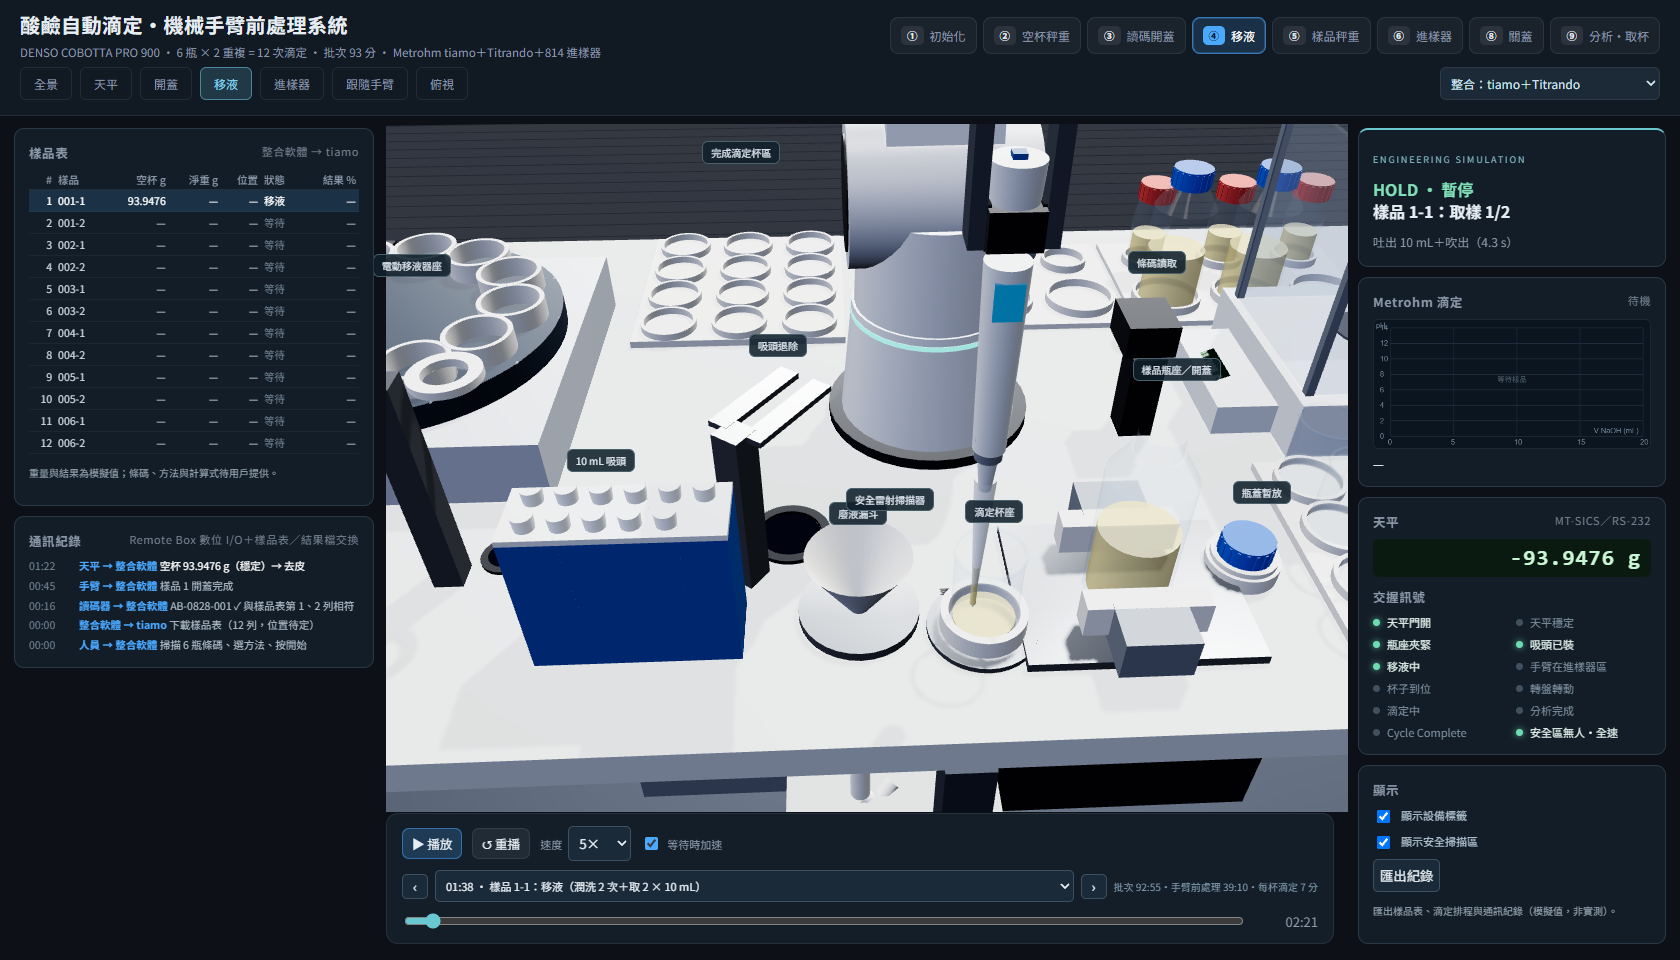
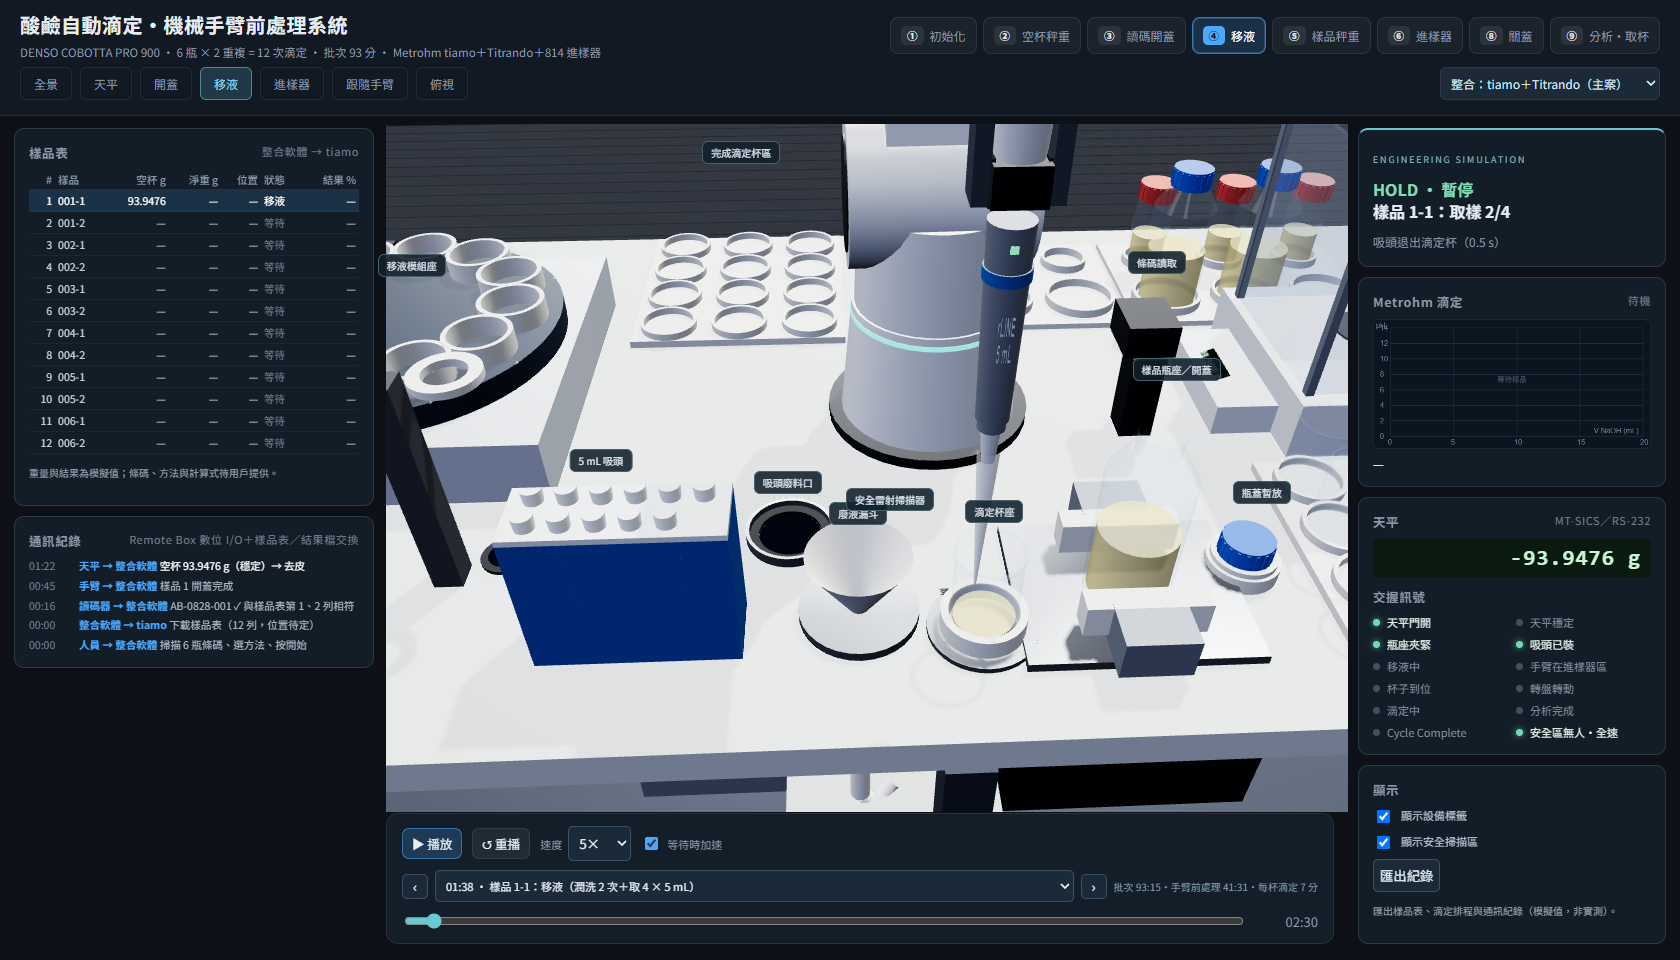
[TestCode] 1. AutomaticAcid-BaseTitration 依選項對話定案：移液改用機器人專用 5 mL 移液模組（rLINE 級，4 × 5 mL、電動退吸頭），退除叉改為吸頭廢料口。 2. Metrohm 以 tiamo＋Titrando 為主案、OMNIS 列為備案；滴定頭加純水 50 mL；維持單一滴定頭。 3. 整批約 93 分、前處理每瓶約 6.9 分；規劃文件、README 與驗證結果同步更新，驗證全數通過。

diff --git a/TestCode/AutomaticAcid-BaseTitration/web/js/plan.js b/TestCode/AutomaticAcid-BaseTitration/web/js/plan.js
@@ -90,7 +90,7 @@ export function buildPlan(robot) {
   const B = { t: 0, pose: null, j: null };
   const jawVec = a => new THREE.Vector3(Math.sin(a), 0, Math.cos(a));   // 夾爪沿 (cos a, 0, −sin a) 開合
   function P(x, y, z, a = 0, sym = true) {
-    // 對稱夾持（圓形器皿、移液器）：a 與 a+π 等價，取相對手臂徑向在 ±90° 內者，J6 不會越轉越多
+    // 對稱夾持（圓形器皿、移液模組）：a 與 a+π 等價，取相對手臂徑向在 ±90° 內者，J6 不會越轉越多
     if (sym) { const phi = Math.atan2(-(z - ST.robot.z), x - ST.robot.x), rel = wrapPi(a - phi); a = phi + (rel > Math.PI / 2 ? rel - Math.PI : rel <= -Math.PI / 2 ? rel + Math.PI : rel); }
     const p = robot.poseFor('grip', new THREE.Vector3(x, y, z), jawVec(a)); p.m = { x, y, z, a }; return p;
   }
@@ -215,22 +215,22 @@ export function buildPlan(robot) {
     }
   }
 
-  // ---------------------------------------------------------------- 移液器
+  // ---------------------------------------------------------------- 移液模組
   let hasTip = null;
   function pipetteTake() {
-    act('取移液器');
+    act('取移液模組');
     const w0 = s.grip;
-    go(P(dockPos[0], Y_PIP, dockPos[2], 0), '移到移液器座上方', { fx: (st, e) => { st.grip = THREE.MathUtils.lerp(w0, 70, Math.min(1, e * 2)); } });
+    go(P(dockPos[0], Y_PIP, dockPos[2], 0), '移到移液模組座上方', { fx: (st, e) => { st.grip = THREE.MathUtils.lerp(w0, 70, Math.min(1, e * 2)); } });
     down(Y0 + ST.dock.collar, '直線下降到夾持環', { touch: ['pip', 'dock', 'bench', ...(hasTip ? [hasTip] : [])] });
-    grip(38, '夾住移液器', { touch: ['pip', 'dock', 'bench', ...(hasTip ? [hasTip] : [])] }); attach('pip');
-    up(Y_PIP, '提起移液器', { touch: ['pip', 'dock', 'bench', ...(hasTip ? [hasTip] : [])] });
+    grip(38, '夾住移液模組', { touch: ['pip', 'dock', 'bench', ...(hasTip ? [hasTip] : [])] }); attach('pip');
+    up(Y_PIP, '提起移液模組', { touch: ['pip', 'dock', 'bench', ...(hasTip ? [hasTip] : [])] });
   }
   function pipetteReturn() {
-    act('移液器放回');
-    go(P(dockPos[0], Y_PIP, dockPos[2], 0), '移到移液器座上方');
+    act('移液模組放回');
+    go(P(dockPos[0], Y_PIP, dockPos[2], 0), '移到移液模組座上方');
     down(Y0 + ST.dock.collar, '直線下降放入停放座', { touch: ['pip', 'dock', 'bench', ...(hasTip ? [hasTip] : [])] });
     detach('pip');
-    grip(70, '放開移液器', { touch: ['pip', 'dock'] });
+    grip(70, '放開移液模組', { touch: ['pip', 'dock'] });
     up(Y_PIP, '夾爪上移', { touch: ['pip', 'dock'] });
   }
   function tipMount(t) {
@@ -241,19 +241,17 @@ export function buildPlan(robot) {
     s.loc[`tip${t}`] = { on: 'pip', off: [0, PIPETTE.tipSeat, 0], yaw: 0 }; hasTip = `tip${t}`; setSig('tip', true);
     up(Y_PIP, '提起', { touch: [`tip${t}`, 'tiprack'] });
   }
-  function tipStrip() {
-    const S = ST.stripper, u = new THREE.Vector3(S.x, 0, S.z).normalize(), y = Y0 + S.plate - 1 + PIPETTE.collar - PIPETTE.tipSeat;
-    const tipId = hasTip;
-    act('退除吸頭');
-    go(P(S.x - u.x * 75, Y_PIP, S.z - u.z * 75, 0), '移到吸頭退除叉前');
-    down(y, '下降到退除高度', { touch: ['stripper'] });
-    lin(P(S.x, y, S.z, B.pose.m.a, false), '吸頭卡入叉口', { v: SPEED.linSlow, touch: ['stripper', tipId, 'pip'] });
+  // 模組電動退吸頭：吸頭尖端停在廢料口上方 25 mm，退出後落入桌下廢料桶
+  function tipEject() {
+    const S = ST.tipChute, y = Y0 + 25 + PIPETTE.tipEnd, tipId = hasTip;
+    act('退吸頭');
+    go(P(S.x, Y_PIP, S.z, 0), '移到吸頭廢料口上方');
+    down(y, '下降到退吸頭高度');
+    const y0 = itemWorld(tipId).p.y;
+    wait(0.8, '模組電動退吸頭', null, { sig: 'eject' });
     detach(tipId); hasTip = null; setSig('tip', false);
-    const y0 = s.loc[tipId].w[1];
-    lin(at(y + 50), '上提退除吸頭', { v: SPEED.linSlow, touch: ['stripper', tipId, 'pip'] });
-    wait(0.35, '吸頭落入落料槽', (st, e) => { st.loc[tipId].w[1] = y0 - 260 * e * e; if (e >= 1) st.loc[tipId].gone = true; });
+    wait(0.35, '吸頭落入廢料口', (st, e) => { st.loc[tipId].w[1] = y0 - 300 * e * e; if (e >= 1) st.loc[tipId].gone = true; }, { touch: [tipId, 'chute', 'bench'] });
     s.loc[tipId].gone = true; s.tipVol[tipId] = 0;
-    lin(P(S.x - u.x * 75, y + 50, S.z - u.z * 75, B.pose.m.a, false), '退出叉口', { touch: ['stripper'] });
     up(Y_PIP, '上升');
   }
   // 吸液：吸頭尖端在液面下 12 mm（最低離瓶底 8 mm）
@@ -338,7 +336,7 @@ export function buildPlan(robot) {
   ev('① 初始化：人員掃條碼、整合軟體建立樣品表（6 瓶 × 2 重複）', { phase: 0 });
   say(0, '人員', '整合軟體', '掃描 6 瓶條碼、選方法、按開始');
   say(0, '整合軟體', 'Metrohm', '下載樣品表（12 列，位置待定）');
-  wait(3, '整合軟體檢查天平、Metrohm、移液器連線');
+  wait(3, '整合軟體檢查天平、Metrohm、移液模組連線');
   let beakerNext = 0;
   for (let i = 0; i < SAMPLES.length; i++) {
     const S = SAMPLES[i], b = BOTTLES[S.size], id = `bottle${i}`, rp = sampleRackPos(i);
@@ -397,15 +395,15 @@ export function buildPlan(robot) {
       s.balStable = false;
       place(bk, holderPos[0], holderPos[1] + BEAKER.h / 2, holderPos[2], 0, 90, null, Y_EMPTY, ['移到滴定杯座', '直線下降', '放開', '上升'], { touch: ['holder'] });
       // ---- 移液潤洗＋取樣 20 mL
-      ev(`樣品 ${i + 1}-${rep + 1}：移液（潤洗 2 次＋取 2 × 10 mL）`, { sample: i, job: jobK, phase: 4 });
+      ev(`樣品 ${i + 1}-${rep + 1}：移液（潤洗 2 次＋取 4 × 5 mL）`, { sample: i, job: jobK, phase: 4 });
       act(`樣品 ${i + 1}-${rep + 1}：移液`);
       pipetteTake();
       if (!hasTip) tipMount(i);
       for (let n = 0; n < RINSE.times; n++) { act(`樣品 ${i + 1}-${rep + 1}：潤洗 ${n + 1}/${RINSE.times}`); aspirate(i, RINSE.vol, `潤洗 ${n + 1}`); dispense('waste', RINSE.vol); }
       for (let n = 0; n < ALIQUOT.times; n++) { act(`樣品 ${i + 1}-${rep + 1}：取樣 ${n + 1}/${ALIQUOT.times}`); aspirate(i, ALIQUOT.vol, `取樣 ${n + 1}`); dispense(k, ALIQUOT.vol, `取樣 ${n + 1}`); }
       job.aliquot = ALIQUOT.vol * ALIQUOT.times;
-      say(B.t, '移液器', '整合軟體', `樣品 ${i + 1}-${rep + 1}：已加 ${job.aliquot} mL`);
-      if (rep === 1) tipStrip();
+      say(B.t, '移液模組', '整合軟體', `樣品 ${i + 1}-${rep + 1}：已加 ${ALIQUOT.times} × ${ALIQUOT.vol} mL = ${job.aliquot} mL`);
+      if (rep === 1) tipEject();
       pipetteReturn();
       // ---- 樣品秤重
       act(`樣品 ${i + 1}-${rep + 1}：樣品秤重`); ev(`樣品 ${i + 1}-${rep + 1}：樣品秤重（讀淨重）`, { sample: i, job: jobK, phase: 5 });

diff --git a/TestCode/AutomaticAcid-BaseTitration/web/js/lab.js b/TestCode/AutomaticAcid-BaseTitration/web/js/lab.js
@@ -1,4 +1,4 @@
-// 實驗桌、設備與器皿（樣品瓶、瓶蓋、滴定杯、移液器、吸頭）
+// 實驗桌、設備與器皿（樣品瓶、瓶蓋、滴定杯、移液模組、吸頭）
 import * as THREE from 'three';
 import { block, cylinder, decal, tube } from './detail.js';
 import { Y0, BENCH, ST, BEAKER, BOTTLES, CAP, PIPETTE, SAMPLES } from './layout.js';
@@ -120,18 +120,16 @@ export function createLab(scene) {
   ring(holder, BEAKER.d / 2 + 2, BEAKER.d / 2 + 10, ST.holder.base + 12, [0, 0, 0], M.pom);
   decal(holder, 80, 16, [0, 6.6, 45], [-Math.PI / 2, 0, 0], '滴定杯座', { color: '#20242a', center: true, bold: true });
 
-  // ---------------------------------------------------------------- 移液區：廢液漏斗、吸頭退除叉、吸頭架、移液器停放座
+  // ---------------------------------------------------------------- 移液區：廢液漏斗、吸頭廢料口、吸頭架、移液模組停放座
   const F = ST.funnel;
   const funnel = new THREE.Mesh(new THREE.CylinderGeometry(52, 10, F.top - 10, 32, 1, true), new THREE.MeshStandardMaterial({ color: 0xf4f1e8, roughness: 0.6, side: THREE.DoubleSide }));
   funnel.position.set(F.x, Y0 + 10 + (F.top - 10) / 2, F.z); root.add(K('funnel', funnel));
   cylinder(root, 60, 10, [F.x, Y0 + 5, F.z], M.steel, 'y', 32);
-  const S = ST.stripper, sdir = new THREE.Vector3(S.x, 0, S.z).normalize();              // 開口朝手臂
-  const strip = new THREE.Group(); strip.position.set(S.x, Y0, S.z); strip.rotation.y = Math.atan2(-sdir.x, -sdir.z); root.add(strip);
+  const S = ST.tipChute, strip = new THREE.Group(); strip.position.set(S.x, Y0, S.z); root.add(strip);
   // 局部 +Z 朝手臂：支柱在遠端，叉口開向手臂
-  K('stripper', block(strip, [30, S.plate + 6, 30], [0, (S.plate + 6) / 2, -70], M.steel));
-  for (const s of [-1, 1]) K('stripper', block(strip, [22, 6, 110], [s * 20, S.plate + 3, -15], M.steel));   // 叉形板（槽寬 18：吸頭嘴過得去、吸頭口 Ø20 卡住）
   ring(strip, 34, 44, 5, [0, 0, 0], M.dark); cylinder(strip, 34, 1, [0, 0.5, 0], M.screen, 'y', 28);          // 落料孔（通桌下廢料桶）
-  decal(strip, 70, 16, [0, 1, 58], [-Math.PI / 2, Math.PI, 0], '吸頭退除', { color: '#e6edf3', center: true, bold: true });
+  K('chute', ring(strip, 44, 48, 12, [0, 0, 0], M.steel));
+  decal(strip, 70, 16, [0, 1, 62], [-Math.PI / 2, 0, 0], '吸頭廢料口', { color: '#e6edf3', center: true, bold: true });
   const TR = ST.tipRack, tipRack = new THREE.Group(); root.add(tipRack);
   const trx = TR.x0 + (TR.n - 1) * TR.pitch / 2, trz = (TR.z[0] + TR.z[1]) / 2;
   K('tiprack', block(tipRack, [TR.n * TR.pitch + 16, TR.top - 20, 70], [trx, Y0 + (TR.top - 20) / 2, trz], M.blue));
@@ -141,7 +139,7 @@ export function createLab(scene) {
   cylinder(dock, 26, 4, [0, 2, 0], M.dark, 'y', 32); cylinder(dock, 18, 1, [0, 4.5, 0], M.screen, 'y', 24);   // 桌面孔（吸頭伸入桌下套管）
   K('dock', block(dock, [30, D.collar - 6, 30], [ddir.x * 55, (D.collar - 6) / 2, ddir.z * 55], M.steel));
   const fork = ring(dock, 21, 34, 8, [0, D.collar - 23, 0], M.pom); K('dock', fork);
-  decal(dock, 70, 16, [ddir.x * 55 - ddir.z * 16, 120, ddir.z * 55 + ddir.x * 16], [0, Math.atan2(-ddir.z, ddir.x), 0], '移液器座', { color: '#e6edf3', center: true, bold: true });
+  decal(dock, 70, 16, [ddir.x * 55 - ddir.z * 16, 120, ddir.z * 55 + ddir.x * 16], [0, Math.atan2(-ddir.z, ddir.x), 0], '移液模組座', { color: '#e6edf3', center: true, bold: true });
 
   // ---------------------------------------------------------------- 條碼讀取器（固定式，手臂把瓶子送到讀取點旋轉）
   const SC = ST.scanner, scanner = new THREE.Group(); scanner.position.set(SC.x, Y0, SC.z); root.add(scanner);
@@ -243,11 +241,13 @@ export function createLab(scene) {
     const g = new THREE.Group(); root.add(g); const p = PIPETTE;
     const nose = new THREE.Mesh(new THREE.CylinderGeometry(9, 5.5, p.nose, 20), M.white); nose.position.y = p.nose / 2; g.add(nose);
     const ej = cylinder(g, 12, 20, [0, p.nose + 10, 0], M.grey, 'y', 20);
-    const body = new THREE.Mesh(new THREE.CylinderGeometry(p.r, 14, p.collar - p.nose - 40, 28), M.white); body.position.y = (p.collar + p.nose - 20) / 2; g.add(body);
+    const body = new THREE.Mesh(new THREE.CylinderGeometry(p.r, 14, p.collar - p.nose - 40, 28), M.grey); body.position.y = (p.collar + p.nose - 20) / 2; g.add(body);
+    cylinder(g, p.r + 0.6, 10, [0, p.collar - 70, 0], M.blue, 'y', 28);                                  // 模組識別環
     block(g, [40, 30, 40], [0, p.collar, 0], M.dark);                                                   // 夾持環（夾爪夾這裡）
     const head = new THREE.Mesh(new THREE.CylinderGeometry(20, p.r, p.top - p.collar - 15, 28), M.white); head.position.y = (p.top + p.collar + 15) / 2; g.add(head);
-    const disp = block(g, [22, 30, 3], [0, p.collar - 55, p.r - 1], M.screen); disp.material = new THREE.MeshStandardMaterial({ color: 0x0f2c3a, emissive: 0x2a7fb0, emissiveIntensity: 0.6 });
-    block(g, [10, 4, 10], [0, p.top + 2, 0], M.blue);
+    const led = block(g, [6, 6, 3], [0, p.collar - 45, p.r - 1], M.led); void led;
+    cylinder(g, 5, 30, [0, p.top + 12, 0], M.dark, 'y', 12);                                         // RS-485／電源線接頭（線沿手臂走）
+    decal(g, 26, 60, [0, p.collar - 120, p.r + 0.5], [0, 0, 0], ['rLINE', '5 mL'], { color: '#e6edf3', center: true, bold: true });
     g.userData = { kind: 'pipette' }; return g;
   }
   function tipMesh(i) {

diff --git a/TestCode/AutomaticAcid-BaseTitration/web/js/layout.js b/TestCode/AutomaticAcid-BaseTitration/web/js/layout.js
@@ -12,8 +12,8 @@ export const BOTTLES = {
   100: { d: 56, h: 105, neck: 45, neckH: 22, grip: 70, open: 82, fill: 90 },      // 100 mL 試劑瓶，GL45 瓶蓋
 };
 export const CAP = { d: 53, h: 26, pitch: 4 };                                  // GL45 螺牙節距約 4 mm
-// 10 mL 電動移液器（夾持環在上方）＋ 10 mL 吸頭
-export const PIPETTE = { collar: 245, top: 290, r: 18, nose: 35, tipLen: 160, tipSeat: 12, tipR: 10, tipMax: 10 };
+// 機器人專用 5 mL 移液模組（Sartorius rLINE 級，RS-485 控制、電動退吸頭；夾持環在上方）＋ 5 mL 吸頭
+export const PIPETTE = { collar: 245, top: 290, r: 18, nose: 35, tipLen: 160, tipSeat: 12, tipR: 10, tipMax: 5 };
 PIPETTE.tipEnd = PIPETTE.collar + PIPETTE.tipLen - PIPETTE.tipSeat;              // TCP（夾持環）到吸頭尖端 393 mm
 
 // 站別位置（x, z）；高度為器皿底部所在高度（相對桌面）
@@ -26,9 +26,9 @@ export const ST = {
   clamp: { x: -170, z: -330, base: 10 },                                                 // 樣品瓶座＋開蓋區（氣動自定心 V 型夾座）
   holder: { x: -20, z: -370, base: 15 },                                                 // 滴定杯座
   funnel: { x: 100, z: -345, top: 80 },                                                  // 廢液漏斗（接桌下廢液桶）
-  stripper: { x: 170, z: -230, plate: 180 },                                             // 吸頭退除叉＋落料槽
-  tipRack: { x0: 235, z: [-380, -345], pitch: 30, n: 6, top: 175 },                     // 10 mL 吸頭架（2 × 6）
-  dock: { x: 470, z: -250, collar: 250 },                                                // 移液器停放座（吸頭伸入桌面孔）
+  tipChute: { x: 170, z: -230 },                                                         // 吸頭廢料口（模組電動退吸頭，落入桌下廢料桶）
+  tipRack: { x0: 235, z: [-380, -345], pitch: 30, n: 6, top: 175 },                     // 5 mL 吸頭架（2 × 6）
+  dock: { x: 470, z: -250, collar: 250 },                                                // 移液模組停放座（吸頭伸入桌面孔）
   scanner: { x: -250, z: -30, read: { x: -250, z: 90 }, h: 130 },                       // 固定式條碼讀取器
   sampleRack: { cols: [-620, -500, -380], rows: { 500: 250, 100: 370 }, base: 8, pitch: 120 },       // 待驗樣品瓶區
   doneBottleRack: { cols: [-250, -130, -10], rows: { 500: 250, 100: 370 }, base: 8, pitch: 120 },    // 完成樣品瓶區
@@ -41,7 +41,7 @@ export const ST = {
 
 // 搬運高度：手上物件底部離桌面至少 TRAVEL（越過天平 345、瓶子 202、停放座 295）
 export const TRAVEL = 420;
-export const PIP_TRAVEL = 250;                           // 拿移液器時吸頭尖端的高度（只在移液區內移動）
+export const PIP_TRAVEL = 250;                           // 拿移液模組時吸頭尖端的高度（只在移液區內移動）
 
 // 時間參數（秒）
 export const TIME = {
@@ -57,7 +57,7 @@ export const SPEED = { fast: 500, lin: 150, linSlow: 60, push: 120, near: 40 }; 
 
 // 批次：6 瓶（3 × 500 mL、3 × 100 mL），每瓶兩重複，共 12 次滴定
 export const RINSE = { vol: 3, times: 2 };                 // 潤洗：吸 3 mL 吐到廢液，兩次
-export const ALIQUOT = { vol: 10, times: 2 };              // 取樣：10 mL × 2 = 20 mL
+export const ALIQUOT = { vol: 5, times: 4 };               // 取樣：5 mL × 4 = 20 mL（模組最大 5 mL）
 export const TITRANT = { name: 'NaOH', c: 0.1, buret: 20 };// 滴定液 0.1 mol/L NaOH、20 mL 滴定管
 export const ANALYTE = { name: 'HCl', M: 36.46 };          // 示意：以 HCl 計算酸含量
 

diff --git a/TestCode/AutomaticAcid-BaseTitration/web/js/main.js b/TestCode/AutomaticAcid-BaseTitration/web/js/main.js
@@ -75,9 +75,9 @@ addLabel('樣品瓶座／開蓋', ST.clamp.x, 260, ST.clamp.z);
 addLabel('瓶蓋暫放', ST.capRest.x, 90, ST.capRest.z);
 addLabel('滴定杯座', ST.holder.x, 140, ST.holder.z);
 addLabel('廢液漏斗', ST.funnel.x, 120, ST.funnel.z);
-addLabel('吸頭退除', ST.stripper.x, 230, ST.stripper.z);
-addLabel('10 mL 吸頭', ST.tipRack.x0 + 75, 220, ST.tipRack.z[0]);
-addLabel('電動移液器座', ST.dock.x, 330, ST.dock.z);
+addLabel('吸頭廢料口', ST.tipChute.x, 60, ST.tipChute.z);
+addLabel('5 mL 吸頭', ST.tipRack.x0 + 75, 220, ST.tipRack.z[0]);
+addLabel('移液模組座', ST.dock.x, 330, ST.dock.z);
 addLabel('條碼讀取', ST.scanner.x, 200, ST.scanner.z);
 addLabel('待驗樣品瓶區', ST.sampleRack.cols[1], 260, ST.sampleRack.rows[500]);
 addLabel('完成樣品瓶區', ST.doneBottleRack.cols[1], 260, ST.doneBottleRack.rows[500]);

diff --git a/TestCode/AutomaticAcid-BaseTitration/web/js/robot.js b/TestCode/AutomaticAcid-BaseTitration/web/js/robot.js
@@ -57,7 +57,7 @@ export function createRobot() {
   j.j6 = new THREE.Group(); j.j6.position.set(L.wrist2, 0, 0); j.j5.add(j.j6);                      // J6 繞 X
   const flange = cyl(32, 32, L.flange, matJoint); flange.rotation.z = Math.PI / 2; flange.position.x = L.flange / 2; j.j6.add(flange);
 
-  // ---- 末端工具：長行程電動平行夾爪（燒杯 Ø65、樣品瓶 Ø56／Ø86、瓶蓋 GL45、移液器夾持環共用）----
+  // ---- 末端工具：長行程電動平行夾爪（燒杯 Ø65、樣品瓶 Ø56／Ø86、瓶蓋 GL45、移液模組夾持環共用）----
   const tool = new THREE.Group(); tool.position.x = L.flange; tool.rotation.y = Math.PI / 2; j.j6.add(tool);
   cylinder(tool, 32, 10, [0, 0, 5], matAnod, 'z', 28);                                       // 快換轉接盤
   const [bw, bt, bh] = TOOL.body;

diff --git a/TestCode/AutomaticAcid-BaseTitration/web/index.html b/TestCode/AutomaticAcid-BaseTitration/web/index.html
@@ -32,8 +32,8 @@
       <button data-view="follow">跟隨手臂</button>
       <button data-view="top">俯視</button>
       <select id="mode" aria-label="Metrohm 整合方式">
-        <option value="tiamo">整合：tiamo＋Titrando</option>
-        <option value="omnis">整合：OMNIS</option>
+        <option value="tiamo">整合：tiamo＋Titrando（主案）</option>
+        <option value="omnis">整合：OMNIS（備案）</option>
       </select>
     </div>
   </header>

diff --git a/TestCode/AutomaticAcid-BaseTitration/README.md b/TestCode/AutomaticAcid-BaseTitration/README.md
@@ -5,13 +5,13 @@
 - 讀條碼
 - 開蓋
 - 空杯秤重
-- 移液潤洗與取樣 20 mL
+- 移液潤洗與取樣 20 mL（機器人專用 5 mL 移液模組，4 × 5 mL）
 - 樣品秤重
 - 放入進樣器
 - 關蓋
 - 分析完成後取杯
 
-整合軟體是主控。Metrohm 的整合方式規劃了 tiamo 與 OMNIS 兩案。所有 Three.js 依賴在 `web/vendor`，可離線執行。
+整合軟體是主控。Metrohm 以 tiamo＋Titrando 為主案（Remote Box＋樣品表／結果檔），OMNIS 列為備案。滴定前由滴定頭加純水 50 mL。所有 Three.js 依賴在 `web/vendor`，可離線執行。
 
 方案說明、配置、時間、Metrohm 整合、選型與待確認事項見 [系統規劃](docs/system-plan.md)。用戶提供的流程在 `docs/酸鹼自動滴定-機械手臂規劃-0828.pptx`。
 
@@ -19,9 +19,9 @@
 
 | 項目 | 數值 |
 |---|---|
-| 整批時間 | 約 93 分鐘（第一杯 3.6 分鐘開始滴定，之後每 7 分 24 秒一杯） |
-| 手臂前處理 | 每瓶約 6.4 分鐘，6 瓶共 39 分鐘；手臂忙碌約佔 44% |
-| 瓶頸 | 滴定（每杯 7 分鐘）；加第二組滴定頭可縮短到約 50 分鐘 |
+| 整批時間 | 約 93 分鐘（第一杯 3.9 分鐘開始滴定，之後每 7 分 24 秒一杯） |
+| 手臂前處理 | 每瓶約 6.9 分鐘，6 瓶共 41.5 分鐘；手臂忙碌約佔 47% |
+| 瓶頸 | 滴定（每杯 7 分鐘）；已決定維持單一滴定頭 |
 
 ## 啟動
 
@@ -41,7 +41,7 @@ python serve.py --no-open
 - **整合方式**：選單切換 tiamo／OMNIS，通訊紀錄與電腦畫面跟著改。
 - **左側**：
   - 樣品表：空杯重、淨重、進樣器位置、狀態、結果。
-  - 通訊紀錄：整合軟體與手臂、天平、移液器、讀碼器、Metrohm 之間的訊息。
+  - 通訊紀錄：整合軟體與手臂、天平、移液模組、讀碼器、Metrohm 之間的訊息。
 - **右側**：
   - 目前動作。
   - 滴定曲線（pH 對滴定液體積）。
@@ -57,7 +57,7 @@ python serve.py --no-open
 |---|---|
 | `web/js/layout.js` | 站別位置、器皿尺寸、時間與速度參數、樣品批次 |
 | `web/js/robot.js` | COBOTTA PRO 900 模型、逆解（肘部朝上、J1 固定角度窗）、長行程夾爪 |
-| `web/js/lab.js` | 實驗桌、天平、樣品瓶座、移液區、讀碼器、料架、Metrohm 進樣器與滴定儀、電腦、安全掃描器、器皿 |
+| `web/js/lab.js` | 實驗桌、天平、樣品瓶座、移液區（廢液漏斗、吸頭廢料口、吸頭架、移液模組座）、讀碼器、料架、Metrohm 進樣器與滴定儀、電腦、安全掃描器、器皿 |
 | `web/js/plan.js` | 手臂動作序列（逐步計算 PTP 與直線移動時間）、轉盤與滴定排程、樣品表與通訊紀錄 |
 | `web/js/sim.js` | 把排程在任一時間的狀態套到場景（畫面與驗證共用） |
 | `web/js/main.js` | 場景、時間軸、樣品表、滴定曲線、交握訊號、通訊紀錄、匯出 |
@@ -86,7 +86,7 @@ node --no-warnings --experimental-loader ./tools/three-loader.mjs tools/verify.m
 - 批次結束時：
   - 瓶子已關蓋、回到完成區，每瓶用掉 52 mL。
   - 用過的 6 支吸頭已退除。
-  - 移液器回座、天平門關上。
+  - 移液模組回座、天平門關上。
 - 倒退／跳站結果一致。
 
 最近一次結果在 `review/verification.json`。
